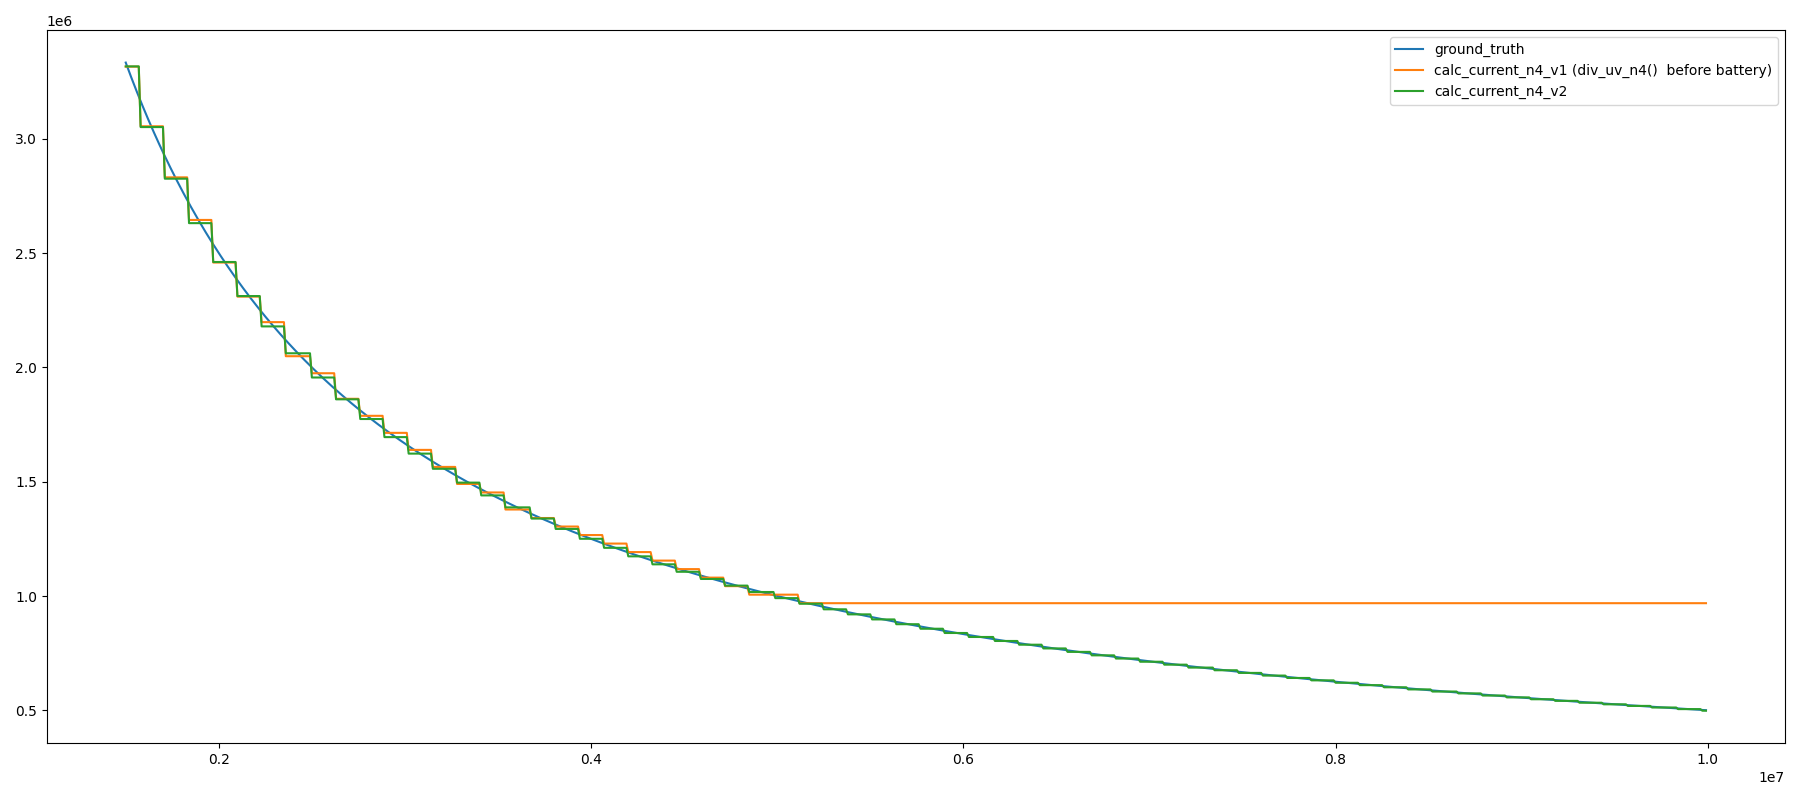
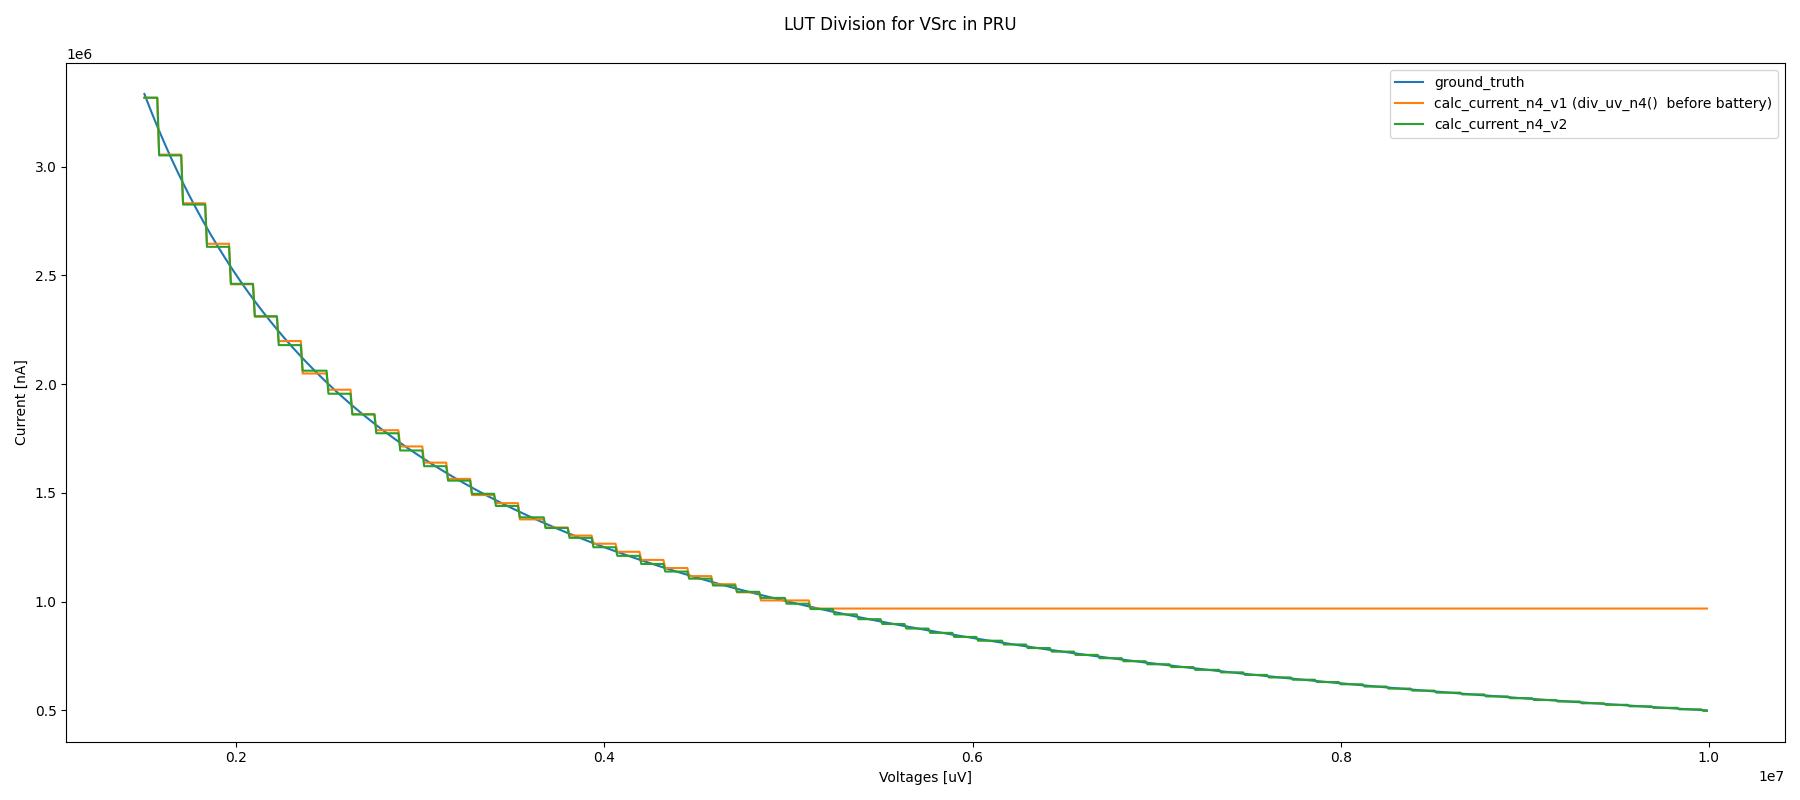
add doc

diff --git a/software/firmware/pru0-shepherd-fw/virtual_converter_div_lut.py b/software/firmware/pru0-shepherd-fw/virtual_converter_div_lut.py
@@ -56,6 +56,8 @@ def calc_current_n4_v1(power_fW_n4: float, voltage_uV: float) -> int:
 
 def calc_current_nA_n4_v2(power_fW_n4: float, voltage_uV: float) -> int:
     """ "
+    The current design is optimized for 0 to 16 V (131 mV Steps).
+
     current_nA = power_fW / voltage_uV              -> baseline
     current_nA_n4 = power_fW_n4 * 1 / voltage_uV    -> wanted format
     current_nA_n4 = (power_fW_n4 / 1_n15) * (1_n15 / voltage_uV)
@@ -85,9 +87,15 @@ ax.plot(voltages_uV, currents_nA, label="calc_current_n4_v1 (div_uv_n4()  before
 currents_nA = [calc_current_nA_n4_v2(power_fW * 2**4, V_uV) // 2**4 for V_uV in voltages_uV]
 ax.plot(voltages_uV, currents_nA, label="calc_current_n4_v2")
 
+fig.suptitle("LUT Division for VSrc in PRU")
+ax.set_xlabel("Voltages [uV]")
+ax.set_ylabel("Current [nA]")
+ax.get_yaxis().get_major_formatter().set_useOffset(False)
+ax.get_xaxis().get_major_formatter().set_useOffset(False)
 ax.legend()
 fig.savefig(Path(__file__).with_suffix(".png"))
 plt.close()
 
 LUT_div = [round(2**15 / (n + 0.5)) for n in range(128)]
+print("LUT-Values for calc_current_nA_n4() ")
 print(", ".join([str(min(div, 2**16 - 1)) for div in LUT_div]))  # noqa: T201

diff --git a/CHANGELOG.md b/CHANGELOG.md
@@ -2,12 +2,15 @@
 
 ## 2026.02.2
 
+- pru - fix wrong cal being written to PRU when tracing energy storage
 - pru - optimize LUT-division to cover 0.13 to 16 V and be more precise and less compute-heavy
+  - add python script for calculation and visualization
 - pru - add special mul32e() to allow full u32*u32 = u64
 - pru - optimize VSrc in PRU0 to use less u64-calculations
   - utilization drops from 96 % mean, 99 % max with a heavy config to 75 % / 78 %
+  - fixes #123
 - sheep - increase warning for pru0-util from 95 % to 98 %
-- sheep - fix for a fix - tracing intermediate voltage now works as expected
+- sheep - fix for a fix #133 - tracing intermediate voltage now works as expected
 - py / uv - abandon global cache
 - ansible - improve uv commands
 - internal - move doc for the release-procedure to root readme
